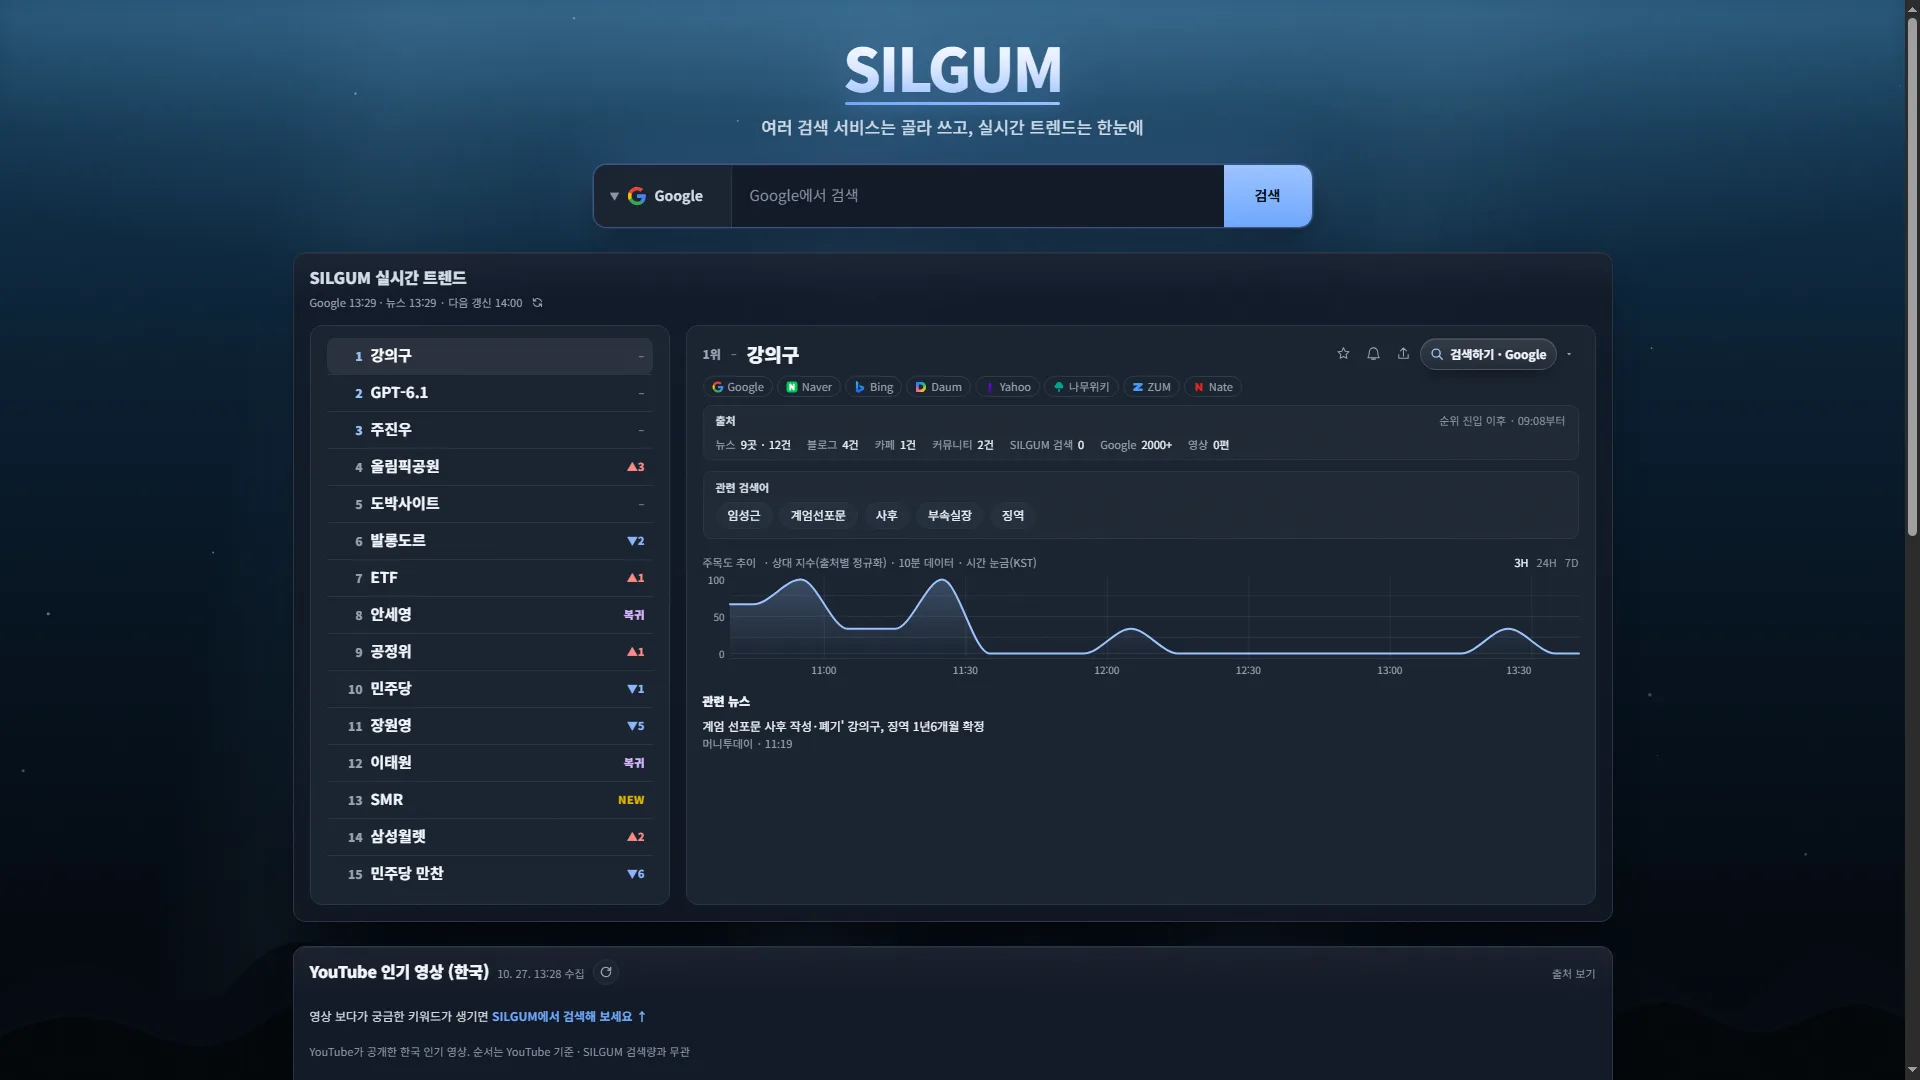
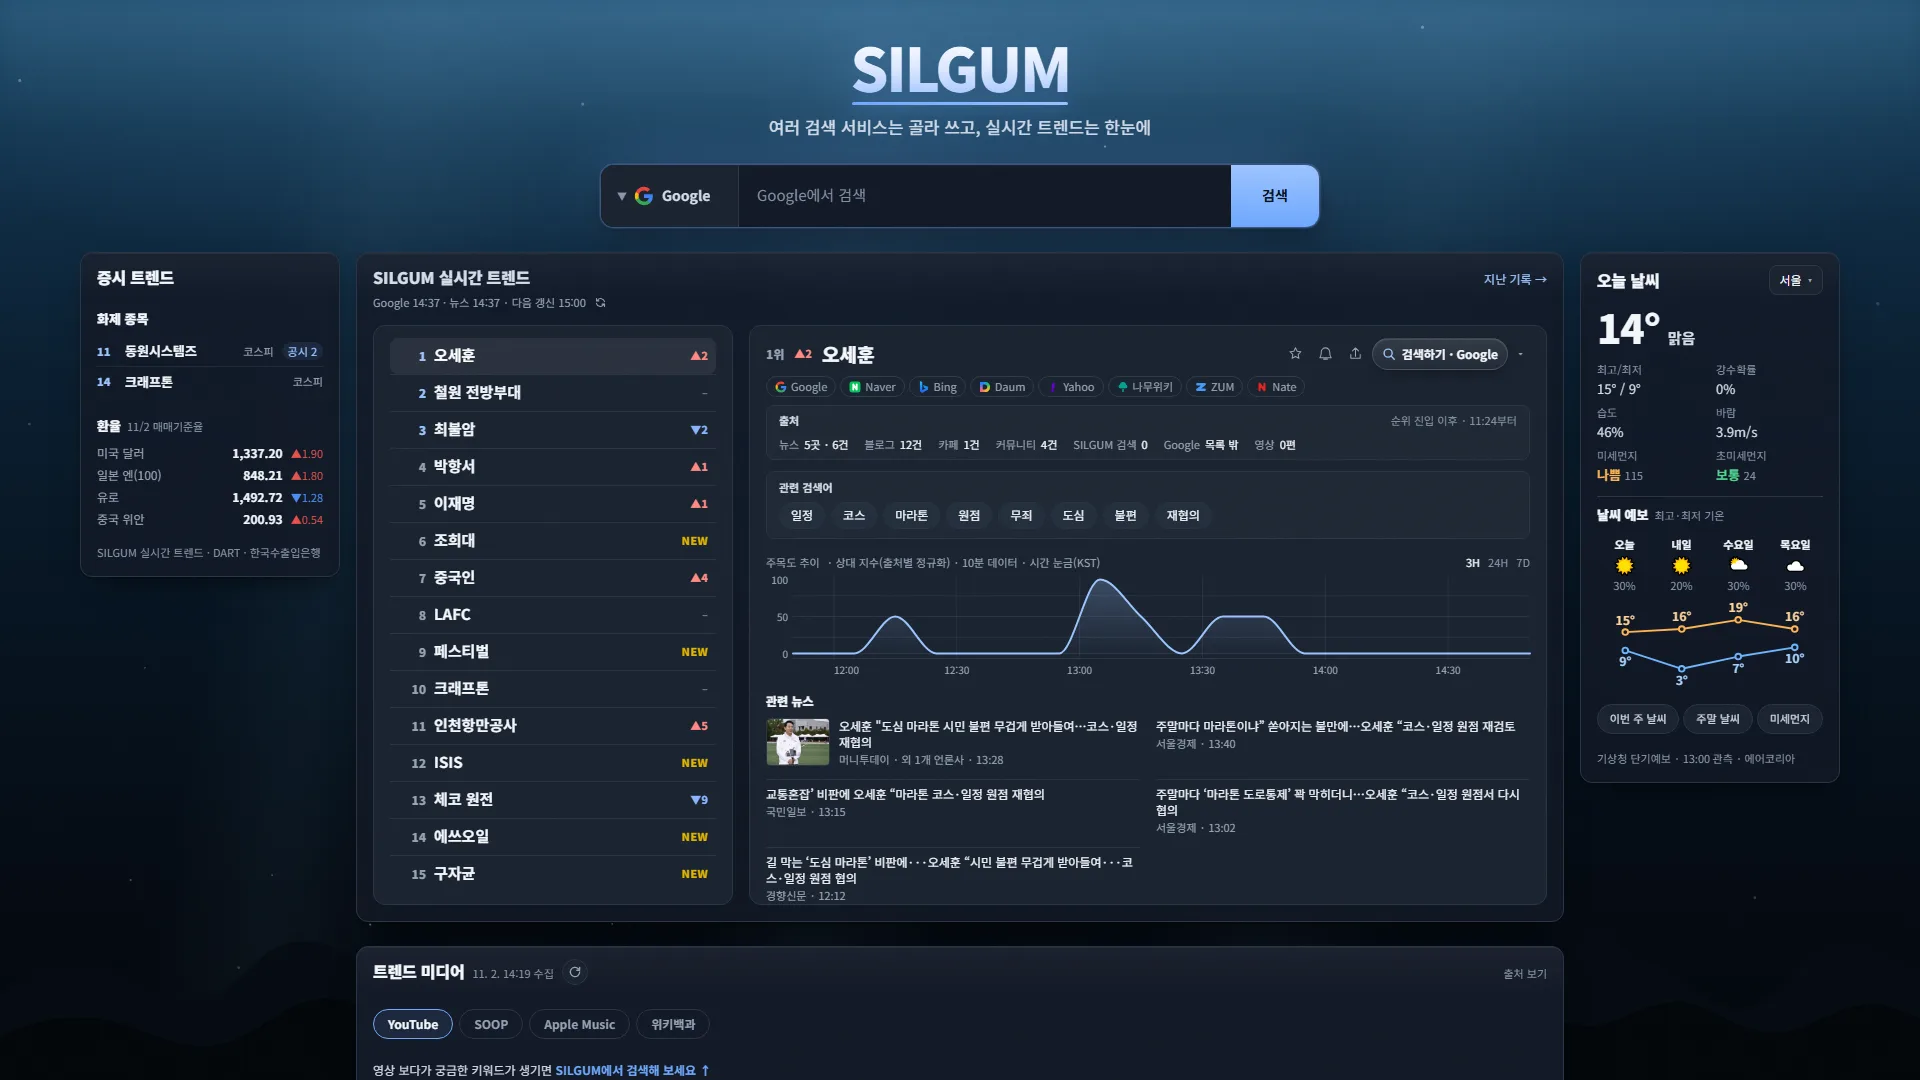
content: refresh the home first-look screenshot and first-screen text

diff --git a/src/content/blog/silgum-home-first-look.md b/src/content/blog/silgum-home-first-look.md
@@ -1,14 +1,14 @@
 ---
 title: "실검 첫 화면, 이렇게 생겼습니다"
-description: "검색창부터 실시간 트렌드까지 첫 화면에서 바로 쓰는 기능을 소개합니다."
+description: "검색창, 실시간 트렌드, 증시·날씨 카드까지 첫 화면에서 바로 쓰는 기능을 소개합니다."
 pubDate: "2026-10-27T09:00:00+09:00"
 heroImage: "../../assets/cards/silgum-home-first-look.png"
 ---
 
-실검(SILGUM)은 처음 열면 검색창 하나와 실시간 트렌드 목록이 보입니다. 기능이 많아 보이지만, 실제로는 **검색하기 → 궁금한 이슈 펼쳐 보기** 두 가지 흐름으로 쓰도록 만들었습니다.
+실검(SILGUM)은 처음 열면 검색창과 실시간 트렌드, 그리고 양옆의 증시·날씨 카드가 보입니다. 기능이 많아 보이지만, 실제로는 **검색하기 → 궁금한 이슈 펼쳐 보기** 두 가지 흐름으로 쓰도록 만들었습니다.
 
 ![실검 첫 화면](/screens/home-1920.webp)
-*첫 화면. 위쪽은 검색, 아래쪽은 실시간 트렌드 목록과 선택한 이슈의 상세입니다.*
+*첫 화면. 위쪽은 검색, 가운데는 실시간 트렌드 목록과 선택한 이슈의 상세, 양옆은 증시·날씨 카드입니다.*
 
 ## 1. 검색창
 
@@ -22,13 +22,18 @@ heroImage: "../../assets/cards/silgum-home-first-look.png"
 
 ## 2. 실시간 트렌드
 
-아래쪽 **SILGUM 실시간 트렌드**는 지금 여러 곳에서 주목받는 이슈를 모은 목록입니다.
+가운데 **SILGUM 실시간 트렌드**는 지금 여러 곳에서 주목받는 이슈를 모은 목록입니다.
 
 - 왼쪽: 순위 목록
 - 오른쪽: 선택한 이슈의 상세
 - 목록의 행을 누르면 오른쪽 상세가 바뀝니다.
+- 오른쪽 위 **지난 기록**을 누르면 날짜별 기록을 볼 수 있습니다.
 
 상세에는 관련 검색어, 관련 기사, 언급 추이 그래프가 함께 나옵니다. 순위 숫자는 검색량이 아니라 **여러 신호를 종합한 주목도**입니다.
+
+## 양옆의 증시·날씨 카드
+
+첫 화면 양옆에는 오늘의 증시와 날씨가 있습니다. 카드의 검색 버튼을 누르면 그 내용이 검색창에 들어가므로, 따로 입력하지 않고 바로 검색할 수 있습니다.
 
 ## 처음이라면 이 순서로
 
@@ -38,5 +43,7 @@ heroImage: "../../assets/cards/silgum-home-first-look.png"
 4. 관련 기사 제목을 누르면 원문으로 이동합니다.
 
 실검은 검색 결과를 대신 보여주는 서비스가 아닙니다. **여러 검색 서비스를 오가며 확인하는 일을 줄여 주는 검색 허브**입니다. 다음 글에서는 실시간 트렌드 상세 화면을 더 자세히 읽어 보겠습니다.
+
+2026-11-02: 첫 화면에 증시·날씨 카드와 지난 기록 링크가 추가되어 스크린샷과 설명을 새로 고쳤습니다.
 
 검색 서비스 사용법은 [검색 도구 안내](https://silgum.co.kr/tools?ref=blog)에 정리해 두었습니다.
